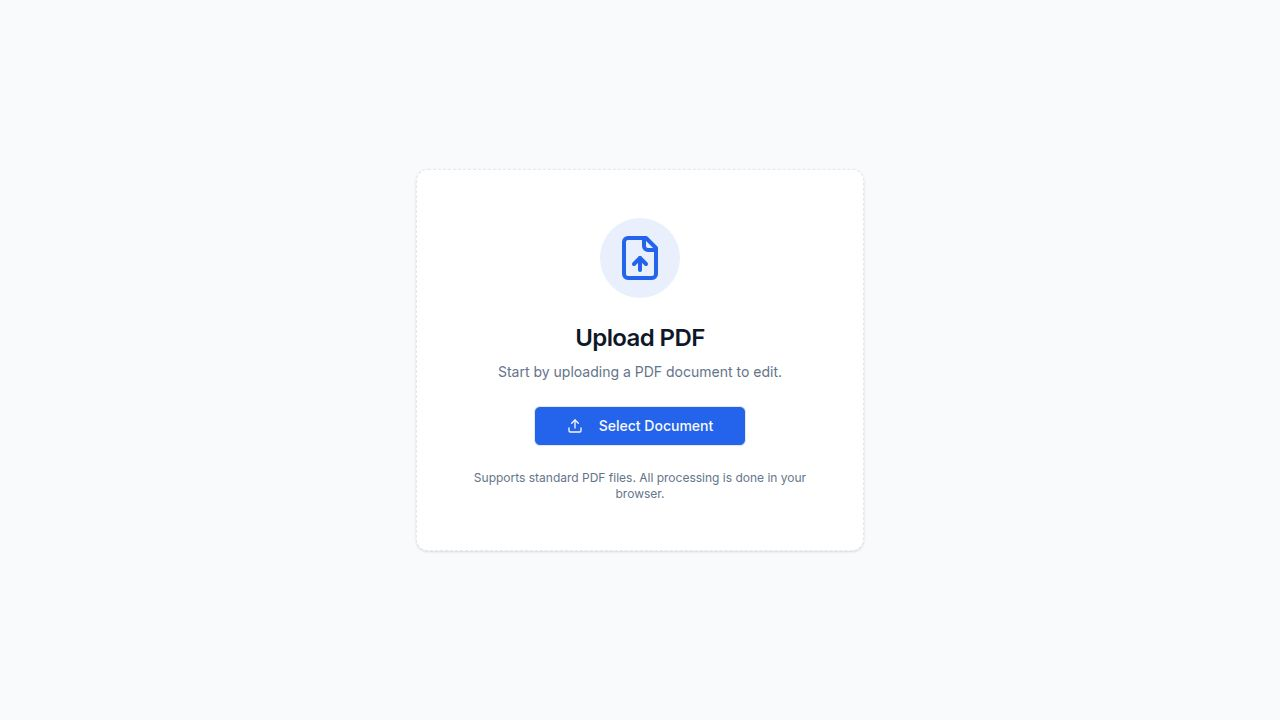
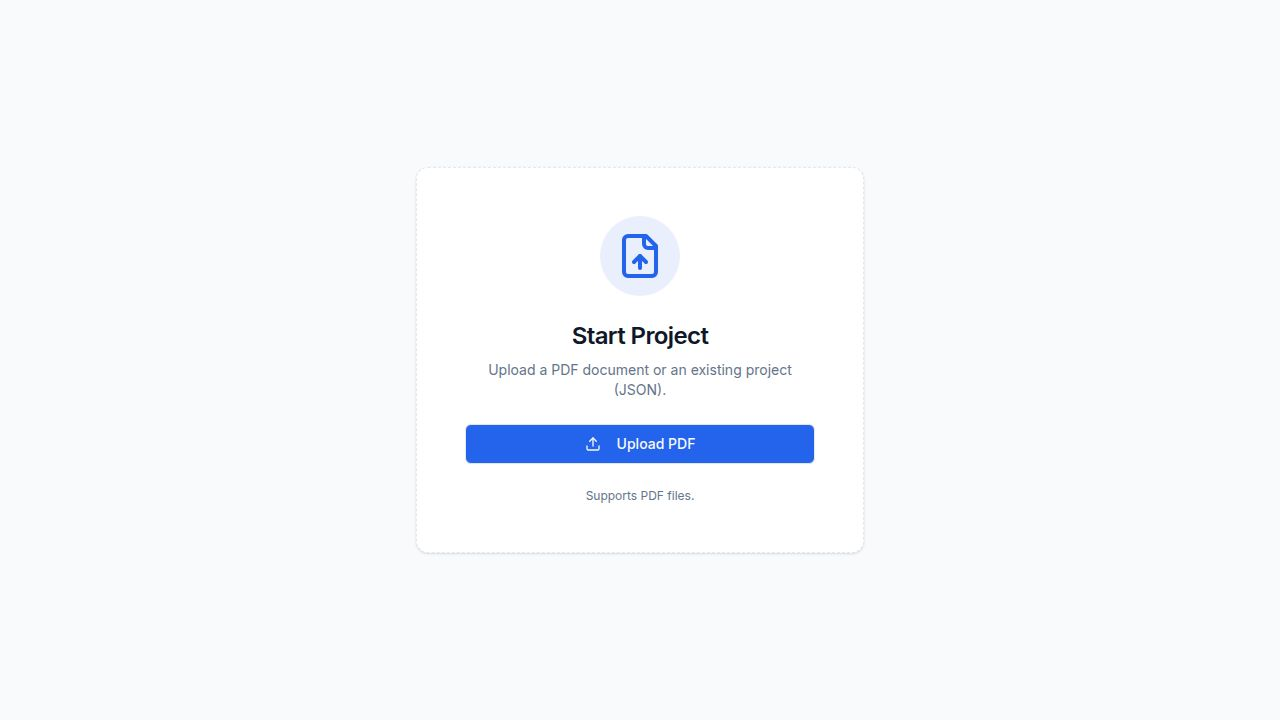
Add object copying and pasting functionality
Implement copy-paste functionality for objects with Ctrl+C/Ctrl+V, remove JSON upload from the home page, and improve object deletion.

Replit-Commit-Author: Agent
Replit-Commit-Session-Id: 0d95b16f-bfc7-46b3-bab1-f06bbe3739bc
Replit-Commit-Checkpoint-Type: full_checkpoint
Replit-Commit-Event-Id: 84713300-fa1f-4835-900c-5d019012a749
Replit-Commit-Screenshot-Url: https://storage.googleapis.com/screenshot-production-us-central1/e13b89a5-5631-42a8-8e73-c4a7ded566c9/0d95b16f-bfc7-46b3-bab1-f06bbe3739bc/6A80k8L
Replit-Helium-Checkpoint-Created: true

Changed region(s): [[0.3438, 0.4583, 0.6562, 0.7028], [0.4688, 0.3361, 0.5312, 0.3972], [0.4688, 0.3056, 0.5, 0.3361]]

diff --git a/client/src/pages/home.tsx b/client/src/pages/home.tsx
@@ -1,4 +1,4 @@
-import React from 'react';
+import React, { useEffect } from 'react';
 import { EditorProvider, useEditor } from '@/lib/editor-context';
 import { PDFUploader } from '@/components/editor/PDFUploader';
 import { LayerPanel } from '@/components/editor/LayerPanel';
@@ -6,7 +6,50 @@ import { Toolbar } from '@/components/editor/Toolbar';
 import { Canvas } from '@/components/editor/Canvas';
 
 const EditorApp = () => {
-  const { state } = useEditor();
+  const { state, dispatch } = useEditor();
+
+  useEffect(() => {
+    const handleKeyDown = (e: KeyboardEvent) => {
+      // Check for Ctrl+C or Cmd+C
+      if ((e.ctrlKey || e.metaKey) && e.key === 'c') {
+        // Only copy if not in an input/textarea (unless it's the hidden clipboard input)
+        // But for our canvas objects, we want to copy them even if focus is somewhere else, 
+        // unless the user is typing in a text box.
+        // We should check if active element is an input.
+        const activeTag = document.activeElement?.tagName.toLowerCase();
+        if (activeTag === 'input' || activeTag === 'textarea' || (document.activeElement as HTMLElement).isContentEditable) {
+           return;
+        }
+        e.preventDefault();
+        dispatch({ type: 'COPY_OBJECT' });
+      }
+      
+      // Check for Ctrl+V or Cmd+V
+      if ((e.ctrlKey || e.metaKey) && e.key === 'v') {
+        const activeTag = document.activeElement?.tagName.toLowerCase();
+        if (activeTag === 'input' || activeTag === 'textarea' || (document.activeElement as HTMLElement).isContentEditable) {
+           return;
+        }
+        e.preventDefault();
+        dispatch({ type: 'PASTE_OBJECT' });
+      }
+
+      // Check for Delete or Backspace
+      if (e.key === 'Delete' || e.key === 'Backspace') {
+        const activeTag = document.activeElement?.tagName.toLowerCase();
+        if (activeTag === 'input' || activeTag === 'textarea' || (document.activeElement as HTMLElement).isContentEditable) {
+           return;
+        }
+        if (state.selectedObjectId) {
+           e.preventDefault();
+           dispatch({ type: 'DELETE_OBJECT', payload: state.selectedObjectId });
+        }
+      }
+    };
+
+    window.addEventListener('keydown', handleKeyDown);
+    return () => window.removeEventListener('keydown', handleKeyDown);
+  }, [dispatch, state.selectedObjectId]); // Depend on selectedObjectId for delete check
 
   if (!state.pdfFile && state.objects.length === 0) {
     return <PDFUploader />;

diff --git a/client/src/lib/editor-context.tsx b/client/src/lib/editor-context.tsx
@@ -12,6 +12,7 @@ const initialState: EditorState = {
   scale: 1,
   scrollPos: { x: 0, y: 0 },
   tool: 'select',
+  clipboardObject: null,
 };
 
 const editorReducer = (state: EditorState, action: EditorAction): EditorState => {
@@ -86,6 +87,30 @@ const editorReducer = (state: EditorState, action: EditorAction): EditorState =>
       const [removed] = result.splice(sourceIndex, 1);
       result.splice(destinationIndex, 0, removed);
       return { ...state, layers: result };
+    }
+    case 'COPY_OBJECT': {
+      if (!state.selectedObjectId) return state;
+      const objectToCopy = state.objects.find(o => o.id === state.selectedObjectId);
+      if (!objectToCopy) return state;
+      return { ...state, clipboardObject: { ...objectToCopy } };
+    }
+    case 'PASTE_OBJECT': {
+      if (!state.clipboardObject || !state.activeLayerId) return state;
+      const newId = uuidv4();
+      const offset = 20 / state.scale;
+      const newObject = {
+        ...state.clipboardObject,
+        id: newId,
+        x: state.clipboardObject.x + offset,
+        y: state.clipboardObject.y + offset,
+        layerId: state.activeLayerId, // Paste into active layer
+        name: `${state.clipboardObject.name} (Copy)`
+      };
+      return {
+        ...state,
+        objects: [...state.objects, newObject],
+        selectedObjectId: newId
+      };
     }
     default:
       return state;

diff --git a/client/src/components/editor/PDFUploader.tsx b/client/src/components/editor/PDFUploader.tsx
@@ -118,24 +118,10 @@ export const PDFUploader = () => {
               Upload PDF
             </Button>
           </div>
-
-          <div className="relative">
-            <input
-              type="file"
-              accept=".json"
-              onChange={handleProjectUpload}
-              className="absolute inset-0 w-full h-full opacity-0 cursor-pointer"
-              data-testid="input-project-upload"
-            />
-            <Button variant="outline" size="lg" className="w-full">
-              <FileUp className="mr-2 h-4 w-4" />
-              Open Project (JSON)
-            </Button>
-          </div>
         </div>
         
         <p className="text-xs text-muted-foreground">
-          Supports PDF and JSON project files.
+          Supports PDF files.
         </p>
       </div>
     </div>

diff --git a/client/src/lib/types.ts b/client/src/lib/types.ts
@@ -35,6 +35,7 @@ export type EditorState = {
   scale: number;
   scrollPos: { x: number; y: number };
   tool: 'select' | 'text' | 'image' | 'icon' | 'draw';
+  clipboardObject: EditorObject | null;
 };
 
 export type EditorAction =
@@ -52,4 +53,6 @@ export type EditorAction =
   | { type: 'SET_SCALE'; payload: number }
   | { type: 'SET_SCROLL'; payload: { x: number; y: number } }
   | { type: 'IMPORT_PROJECT'; payload: Partial<EditorState> }
-  | { type: 'REORDER_LAYERS'; payload: { sourceIndex: number; destinationIndex: number } };
+  | { type: 'REORDER_LAYERS'; payload: { sourceIndex: number; destinationIndex: number } }
+  | { type: 'COPY_OBJECT' }
+  | { type: 'PASTE_OBJECT' };
